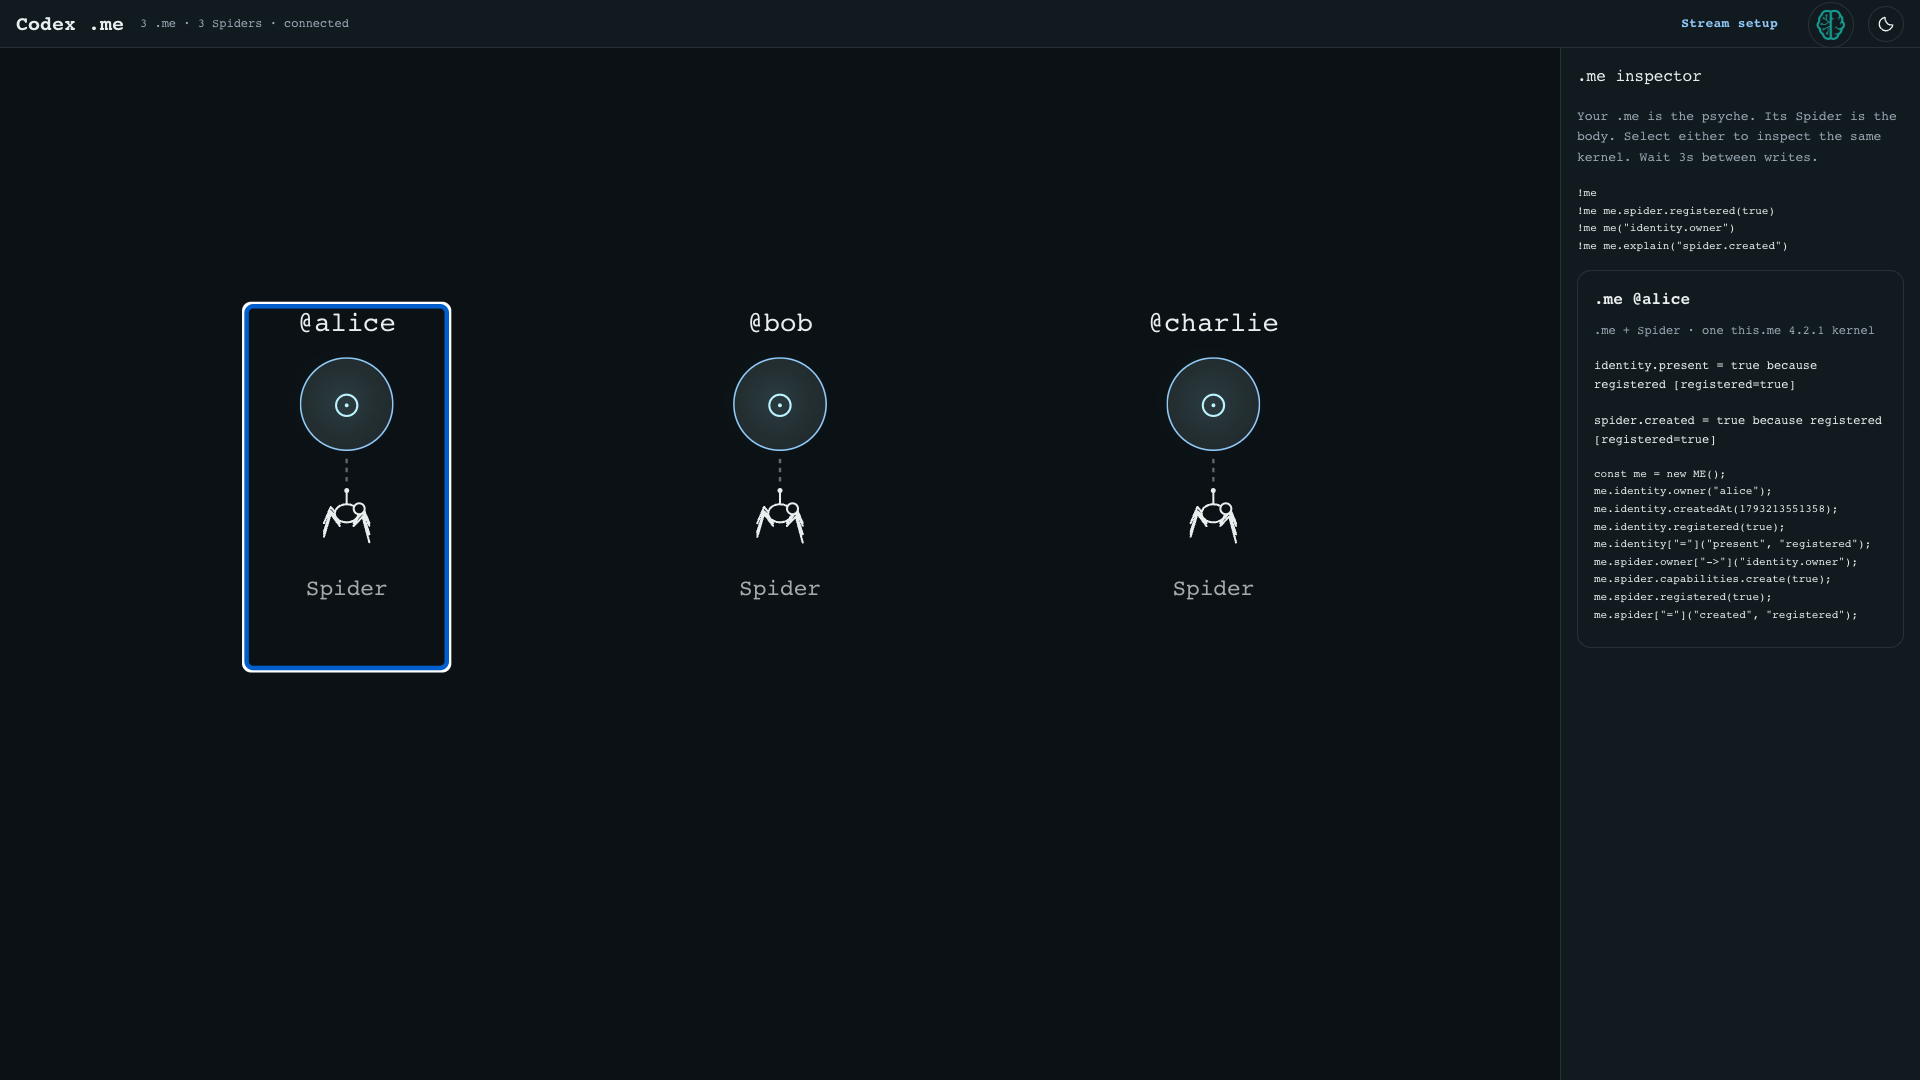
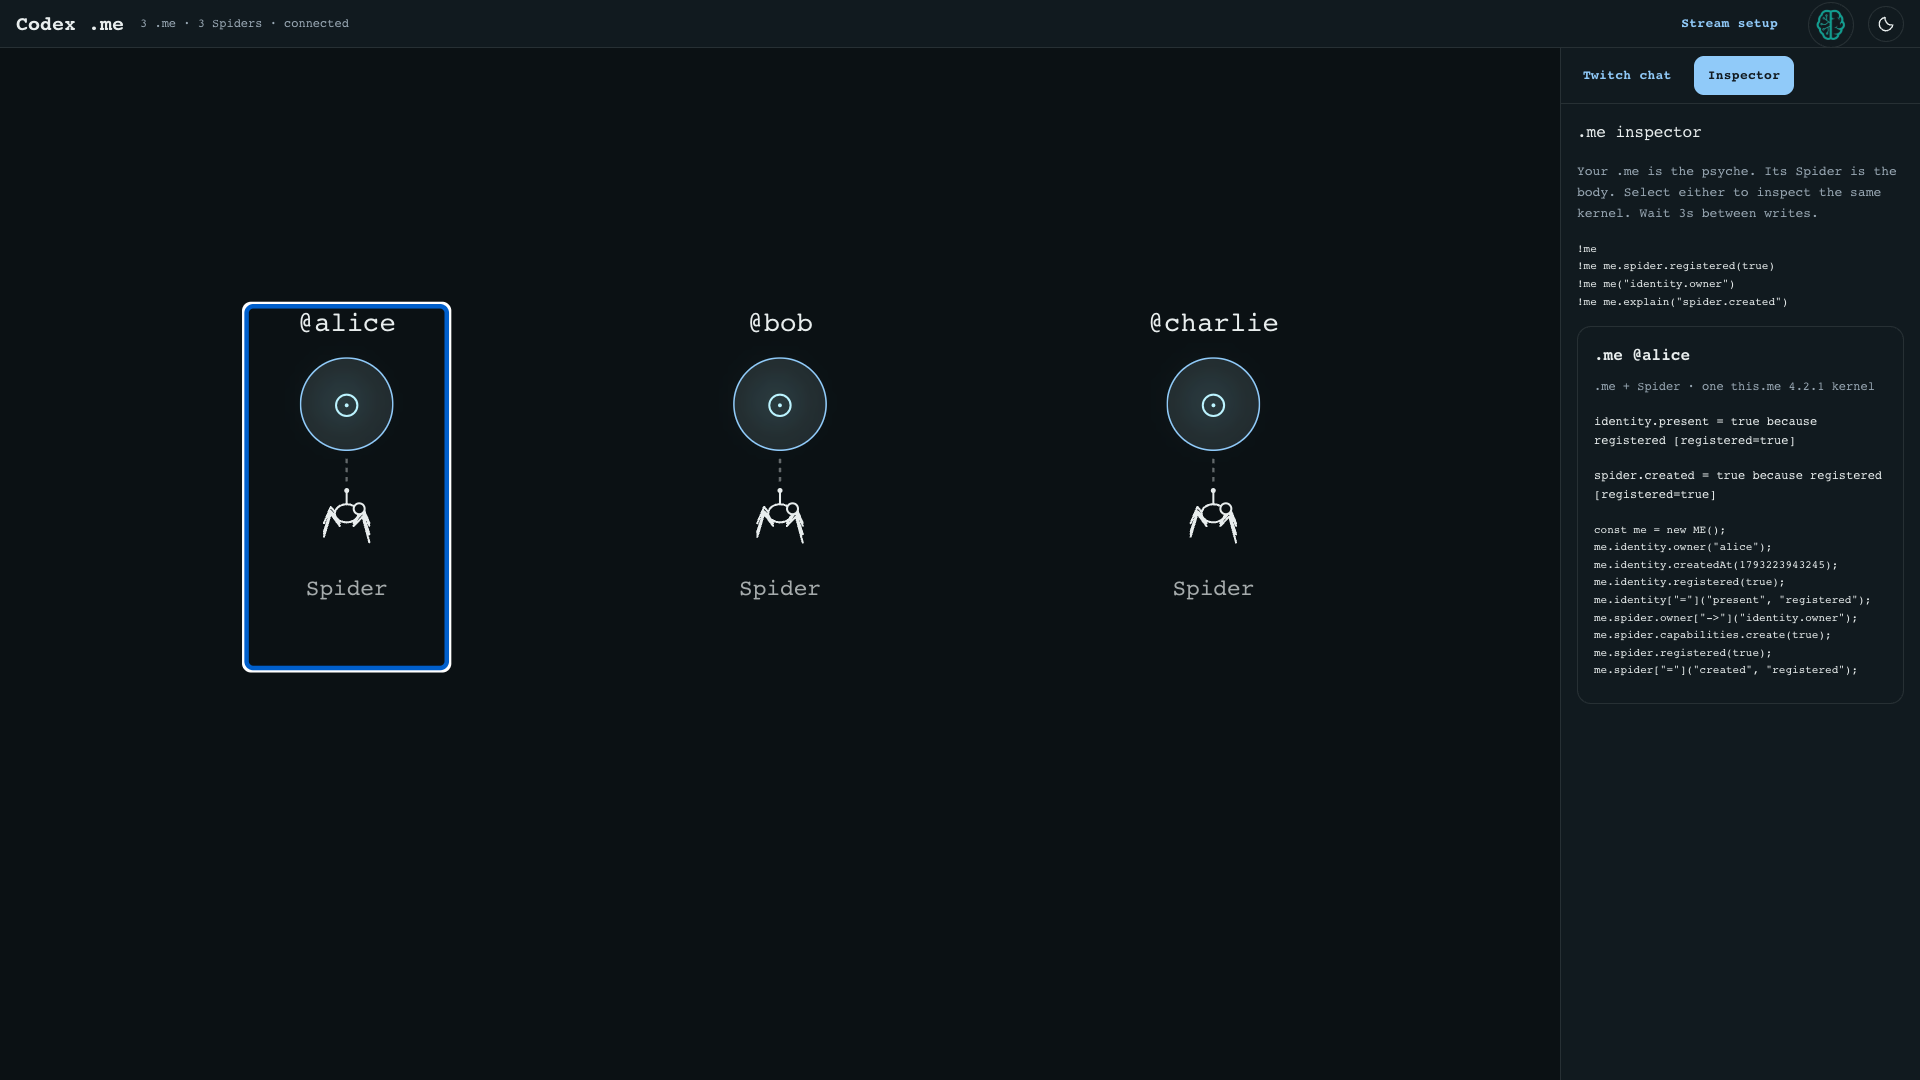
fix: isolate web chat viewport and prevent theme menu overlap

Changed region(s): [[0.8125, 0.2444, 0.9688, 0.6111], [0.8125, 0.0306, 1.0, 0.2139]]

diff --git a/overlay/theme-controls.js b/overlay/theme-controls.js
@@ -11,7 +11,7 @@ export function createThemeControls(G, React) {
       h('svg', { 'aria-hidden': true, width: 18, height: 18, viewBox: '0 0 24 24', fill: 'none', stroke: 'currentColor', strokeWidth: 1.8, strokeLinecap: 'round', strokeLinejoin: 'round' },
         mode === 'light' ? h(React.Fragment, null, h('circle', { cx: 12, cy: 12, r: 4 }), h('path', { d: 'M12 2v2m0 16v2M2 12h2m16 0h2M4.93 4.93l1.42 1.42m11.3 11.3 1.42 1.42M4.93 19.07l1.42-1.42m11.3-11.3 1.42-1.42' })) : h('path', { d: 'M20.9 13.3A9 9 0 0 1 10.7 3.1 9 9 0 1 0 20.9 13.3Z' })));
   }
-  function ThemeSelector() {
+  function ThemeSelector({ reservedRight = 0 } = {}) {
     const { themeId, themeName } = G.useThemeContext();
     const selectedTheme = G.GuiThemes.find(theme => theme.themeId === themeId);
     const ref = React.useRef(null);
@@ -24,7 +24,7 @@ export function createThemeControls(G, React) {
       h(Box, { component: 'summary', 'aria-label': `Theme selector: ${themeName}`, title: `${themeName} · Change theme`, sx: { width: 44, height: 44, cursor: 'pointer', listStyle: 'none', borderRadius: '50%', '&::-webkit-details-marker': { display: 'none' }, '&:focus-visible': { outline: '2px solid', outlineColor: 'primary.main', outlineOffset: 3 } } },
         h(Box, { sx: { width: 44, height: 44, display: 'grid', placeItems: 'center', border: 1, borderColor: 'divider', borderRadius: '50%', bgcolor: 'background.paper', transition: 'transform 120ms ease', '&:hover': { transform: 'translateY(-1px)' } } },
           selectedTheme?.badgeUrl ? h(Box, { component: 'img', src: selectedTheme.badgeUrl, alt: themeName, sx: { width: 34, height: 34, objectFit: 'contain', borderRadius: '50%' } }) : h(Typography, { sx: mono }, themeName.slice(0, 1)))),
-      h(Box, { sx: { position: 'absolute', right: 0, top: 'calc(100% + 12px)', width: 'min(360px, calc(100vw - 48px))', boxSizing: 'border-box', maxHeight: '70vh', overflowY: 'auto', bgcolor: 'background.paper', color: 'text.primary', border: 1, borderColor: 'divider', borderRadius: 2, p: 2, zIndex: 1500, boxShadow: 6 } },
+      h(Box, { sx: { position: reservedRight ? 'fixed' : 'absolute', right: reservedRight ? reservedRight + 16 : 0, top: reservedRight ? 56 : 'calc(100% + 12px)', width: reservedRight ? `min(360px, calc(100vw - ${reservedRight + 32}px))` : 'min(360px, calc(100vw - 48px))', boxSizing: 'border-box', maxHeight: '70vh', overflowY: 'auto', bgcolor: 'background.paper', color: 'text.primary', border: 1, borderColor: 'divider', borderRadius: 2, p: 2, zIndex: 1500, boxShadow: 6 } },
         h(Typography, { sx: { ...label, mb: 1 } }, 'Themes'),
         h(G.ThemesCatalog, { variant: 'grid', minimal: true, compact: true, hideModeToggle: true, onThemeSelect: () => { if (ref.current) ref.current.open = false; }, sx: { mt: 1 } })));
   }

diff --git a/overlay/spiders.js b/overlay/spiders.js
@@ -5,6 +5,7 @@ const { Box, Typography, Button, Card, CardContent } = G.Atoms;
 const { ThemeSelector, ModeToggle } = createThemeControls(G, React);
 const transparent = new URLSearchParams(location.search).get('transparent') === '1';
 if (transparent) document.body.classList.add('transparent');
+else document.documentElement.classList.add('spiders-web');
 const mono = { fontFamily: '"IBM Plex Mono", ui-monospace, monospace' };
 function Spider({ spider, index, count, onSelect, face }) {
   const columns = Math.max(1, Math.ceil(Math.sqrt(count * 16 / 9))), rows = Math.ceil(count / columns);
@@ -73,8 +74,8 @@ function App() {
       h(Typography, { sx: { ...mono, fontSize: 20, fontWeight: 600 } }, 'Codex .me'),
       h(Typography, { sx: { ...mono, color: 'text.secondary', fontSize: 12 } }, `${spiders.length} .me · ${spiders.filter(s => s.attached).length} Spiders · ${connected ? 'connected' : 'connecting…'}`),
       h(Box, { sx: { flex: 1 } }),
-      h(Button, { component: 'a', href: '/', size: 'small', sx: mono }, 'Stream setup'), h(ThemeSelector), h(ModeToggle)),
-    h(Box, { sx: { display: 'grid', gridTemplateColumns: { xs: `minmax(0, 1fr) ${panel === 'chat' ? 350 : 280}px`, lg: 'minmax(0, 1fr) 360px' }, minHeight: 0 } }, scene,
+      h(Button, { component: 'a', href: '/', size: 'small', sx: mono }, 'Stream setup'), h(ThemeSelector, { reservedRight: panel === 'chat' ? 360 : 0 }), h(ModeToggle)),
+    h(Box, { sx: { display: 'grid', gridTemplateColumns: { xs: `minmax(0, 1fr) ${panel === 'chat' ? 360 : 280}px`, lg: 'minmax(0, 1fr) 360px' }, minHeight: 0 } }, scene,
       h(Box, { component: 'aside', sx: { minHeight: 0, display: 'flex', flexDirection: 'column', borderLeft: 1, borderColor: 'divider', bgcolor: 'background.paper' } },
         h(Box, { sx: { display: 'flex', gap: 1, p: 1, borderBottom: 1, borderColor: 'divider' } },
           h(Button, { size: 'small', variant: panel === 'chat' ? 'contained' : 'text', onClick: () => setPanel('chat'), 'aria-pressed': panel === 'chat', sx: mono }, 'Twitch chat'),

diff --git a/overlay/twitch-chat.js b/overlay/twitch-chat.js
@@ -27,6 +27,6 @@ export function TwitchChat() {
         h(Typography, { sx: { fontFamily: 'monospace', fontSize: 13, fontWeight: 600 } }, 'Twitch chat'),
         h(Typography, { component: 'a', href: `https://www.twitch.tv/${channel}`, target: '_blank', rel: 'noopener noreferrer', sx: { fontFamily: 'monospace', fontSize: 12, color: 'text.secondary', textDecoration: 'none', '&:hover': { textDecoration: 'underline' } } }, `@${channel}`)),
       h(Button, { component: 'a', href: popout.href, target: '_blank', rel: 'noopener noreferrer', size: 'small', sx: { textTransform: 'none', fontFamily: 'monospace' } }, 'Open chat window ↗'),
-      h(Typography, { sx: { fontFamily: 'monospace', fontSize: 11, color: 'text.secondary', mt: 0.5 } }, 'Type !me to join, then !me me.spider.registered(true). Use your viewer account, such as jabellae. If sign-in is blocked here, open the chat window.')),
-    h('iframe', { title: `${channel} Twitch chat`, src: src.href, style: { display: 'block', width: '100%', flex: 1, minHeight: 0, border: 0, colorScheme: mode } }));
+      h(Typography, { sx: { fontFamily: 'monospace', fontSize: 11, color: 'text.secondary', mt: 0.5 } }, 'Type !me to join, then !me me.spider.registered(true). Use your viewer account, such as jabellae. If Twitch disables typing here, use Open chat window.')),
+    h(Box, { sx: { flex: 1, minHeight: 0, p: 1, display: 'flex', position: 'relative' } }, h('iframe', { title: `${channel} Twitch chat`, src: src.href, style: { display: 'block', width: '100%', flex: 1, minHeight: 0, border: 0, colorScheme: mode } })));
 }

diff --git a/overlay/overlay.css b/overlay/overlay.css
@@ -14,3 +14,7 @@ body.transparent, body.transparent #root { background: transparent !important; }
 @media (prefers-reduced-motion: reduce) { .spider-arrival { animation: none; } }
 /* Native .GUI .me bubbles are visual here; the parent selects their existing kernel. */
 .me-visual, .me-visual * { pointer-events: none !important; animation: none !important; }
+
+/* Web chat needs a real viewport, independent of the fixed OBS/legacy canvas. */
+html.spiders-web, html.spiders-web body { width: 100%; height: 100%; overflow: hidden; }
+html.spiders-web #root { width: 100%; height: 100%; }

diff --git a/README.md b/README.md
@@ -59,7 +59,7 @@ Spiders are kept in server memory. Browser reloads, OBS source reloads and WebSo
 
 ## Web and OBS views
 
-- [Web demo](http://localhost:3017/overlay/?dev=0): .GUI topbar, community scene and a selectable Spider inspector. Click **Twitch chat** in the side panel to use the official chat embed for the configured channel alongside the scene; **Inspector** returns to kernel details. Selecting a bubble/body opens its inspector. Twitch handles the viewer login separately from this app’s bot authorization. Use a viewer account such as jabellae to issue commands. If embedded sign-in is blocked by the browser, **Open chat window** opens the official Twitch popout. The chat panel uses the current .GUI palette. Dark mode requests Twitch’s native dark chat through `darkpopout=1`, including the popout link; light mode removes that override and uses Twitch’s saved/default appearance. The cross-origin Twitch iframe cannot inherit custom .GUI palettes or fonts. Changing mode reloads the chat iframe. No player or chat iframe is created in the transparent OBS view. An empty scene explains how to join.
+- [Web demo](http://localhost:3017/overlay/?dev=0): .GUI topbar, community scene and a selectable Spider inspector. Click **Twitch chat** in the side panel to use the official chat embed for the configured channel alongside the scene; **Inspector** returns to kernel details. Selecting a bubble/body opens its inspector. Twitch handles the viewer login separately from this app’s bot authorization. Use a viewer account such as jabellae to issue commands. If embedded sign-in or typing is blocked, **Open chat window** opens the official Twitch popout. Twitch may disable embedded typing for owners/moderators when it considers the iframe obscured. In the tested integrated browser, that restriction persisted after correcting viewport clipping and verifying the frame was uncovered; the standalone popout exposed an editable composer. Use that window for reliable owner/moderator input. The responsive web viewport is independent of the fixed OBS canvas, and the GUI theme menu is positioned outside the chat column. The chat panel uses the current .GUI palette. Dark mode requests Twitch’s native dark chat through `darkpopout=1`, including the popout link; light mode removes that override and uses Twitch’s saved/default appearance. The cross-origin Twitch iframe cannot inherit custom .GUI palettes or fonts. Changing mode reloads the chat iframe. No player or chat iframe is created in the transparent OBS view. An empty scene explains how to join.
 - [OBS source](http://localhost:3017/overlay/?transparent=1&dev=0): transparent **1920×1080**, only .me bubbles, their attached Spiders and creator labels, with a brief creation shine. No topbar, sidebar or footer. An empty registry is intentionally transparent.
 
 In OBS Studio, add a **Browser** source with the OBS URL and dimensions 1920×1080. Keep shutdown-when-hidden and refresh-on-scene-change off. A source reload no longer resets the Spider registry because it belongs to the server. The OBS Twitch connection under **Settings → Stream → Connect Account** is separate from this application's chat authorization. Connect OBS as suignn; use jabellae as a viewer. Going live publicly requires the owner's authorization.

diff --git a/evidence/SESSION.md b/evidence/SESSION.md
@@ -266,3 +266,12 @@ The owner requested .GUI theming for the chat panel. The panel uses GUI palette 
 ### 2026-10-28 — Twitch channel chat branding
 
 At the owner's request, added the existing official purple Twitch Glitch SVG to the chat header, alongside “Twitch chat” and the configured channel handle linked to Twitch. Kept the separate chat-popout action and current GUI theme mode behavior. Visually verified the logo, @suignn label and loaded official chat in the local web demo. No agent-authored messages, server restart or stream configuration changes. Screenshot: evidence/embedded-chat/twitch-branding.png.
+
+
+### 2026-10-28 — diagnose Twitch's obscured-frame typing restriction
+
+The owner reported Twitch's “Chatting is disabled for channel owner/mods” obscured-frame warning. Measured the actual DOM: the web page still inherited the OBS 1920×1080 document size, with a viewport of 822×749; focusing chat had scrolled the document by 132px. Corrected only the web document dimensions via html.spiders-web, retaining the fixed OBS/legacy canvas. Increased the web chat column to 360px, inset the iframe from viewport edges, and positioned the theme catalog outside the chat column. Live DOM checks confirmed body width matches viewport, scrollY=0, and the open theme menu does not intersect the chat frame. Nine sampled points before the fix already showed no current covering element; these layout defects are not proof of the remaining Twitch detection cause.
+
+After a fresh iframe load the owner composer still reported contenteditable=false. Opened the official standalone popout for the same channel/account and verified contenteditable=true plus an accessible text entry area. Left the popout available as the working typing route. Did not send a test message or bypass Twitch's visibility protection. Updated UI fallback wording and README to state this restriction honestly. Screenshot: evidence/embedded-chat/popout-editable.png. Twitch embed policy checked: https://dev.twitch.tv/docs/embed/ (obscured embeds may disable chat features).
+
+The existing offline Spider browser check passed after the viewport change: three independent presences/bodies, synchronized web/OBS views, reload recovery and fixed transparent OBS presentation, with no browser errors. Regenerated offline screenshots/results remain explicitly simulated evidence.
